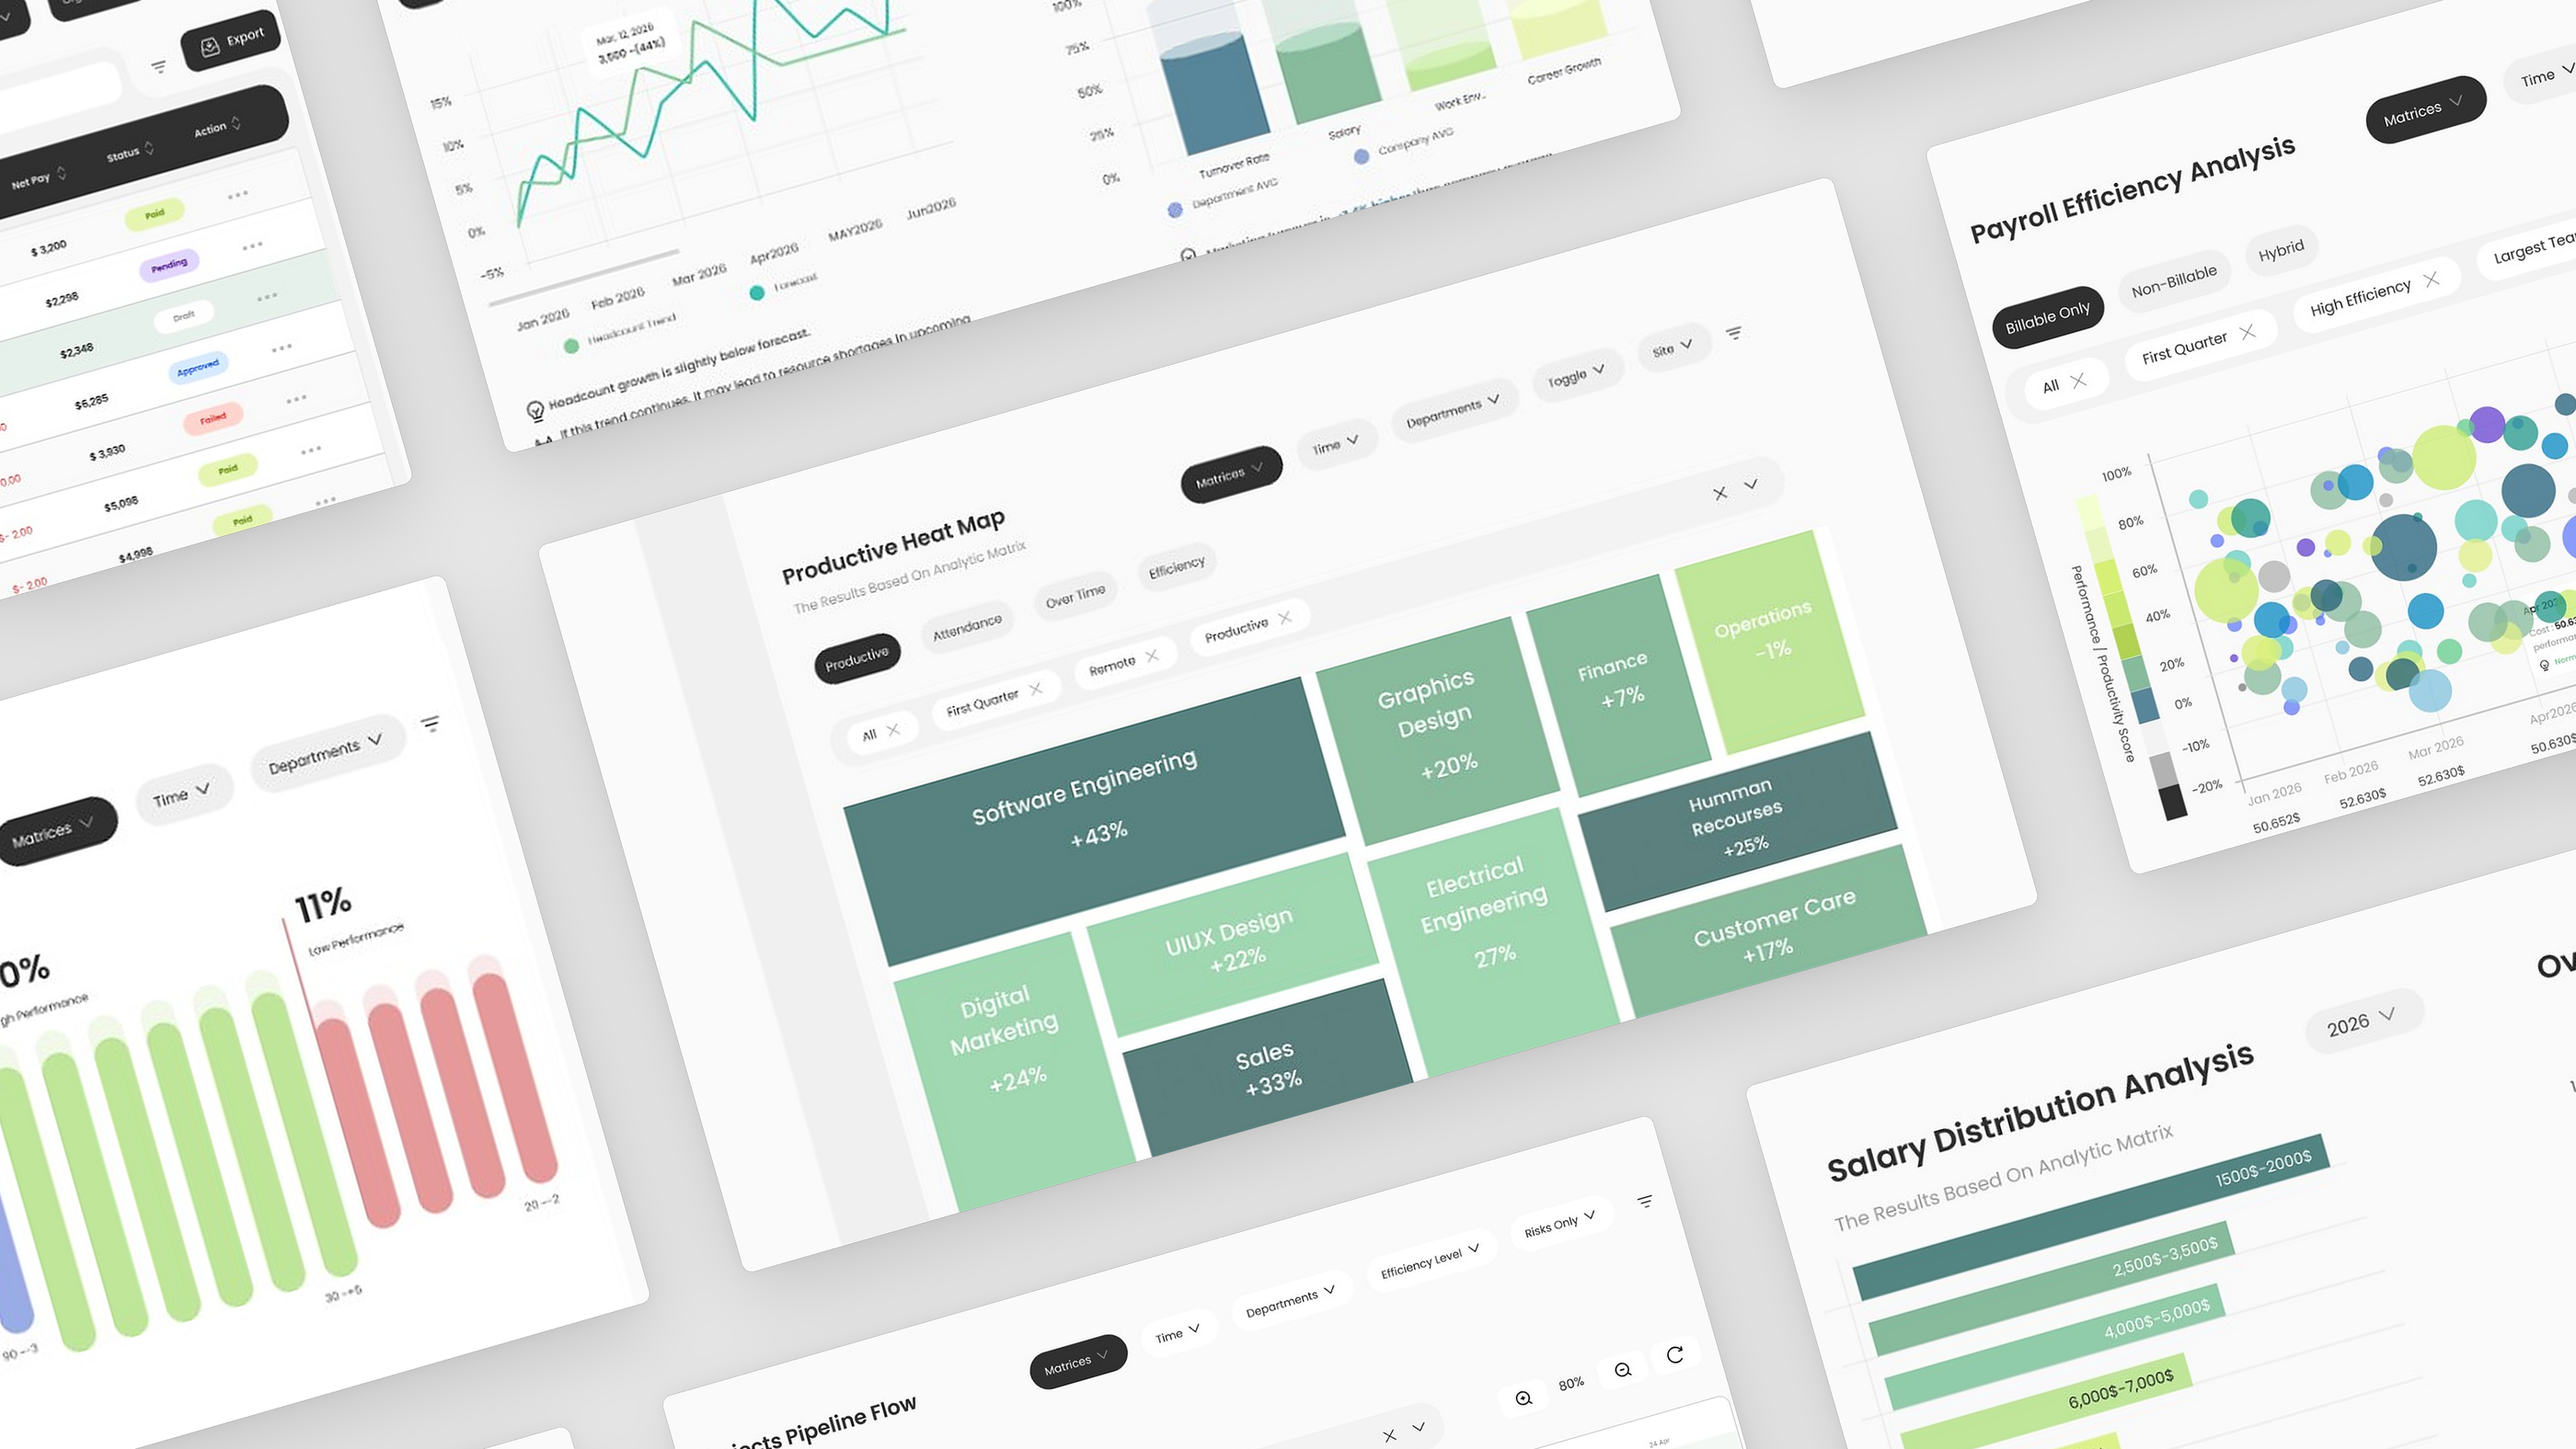
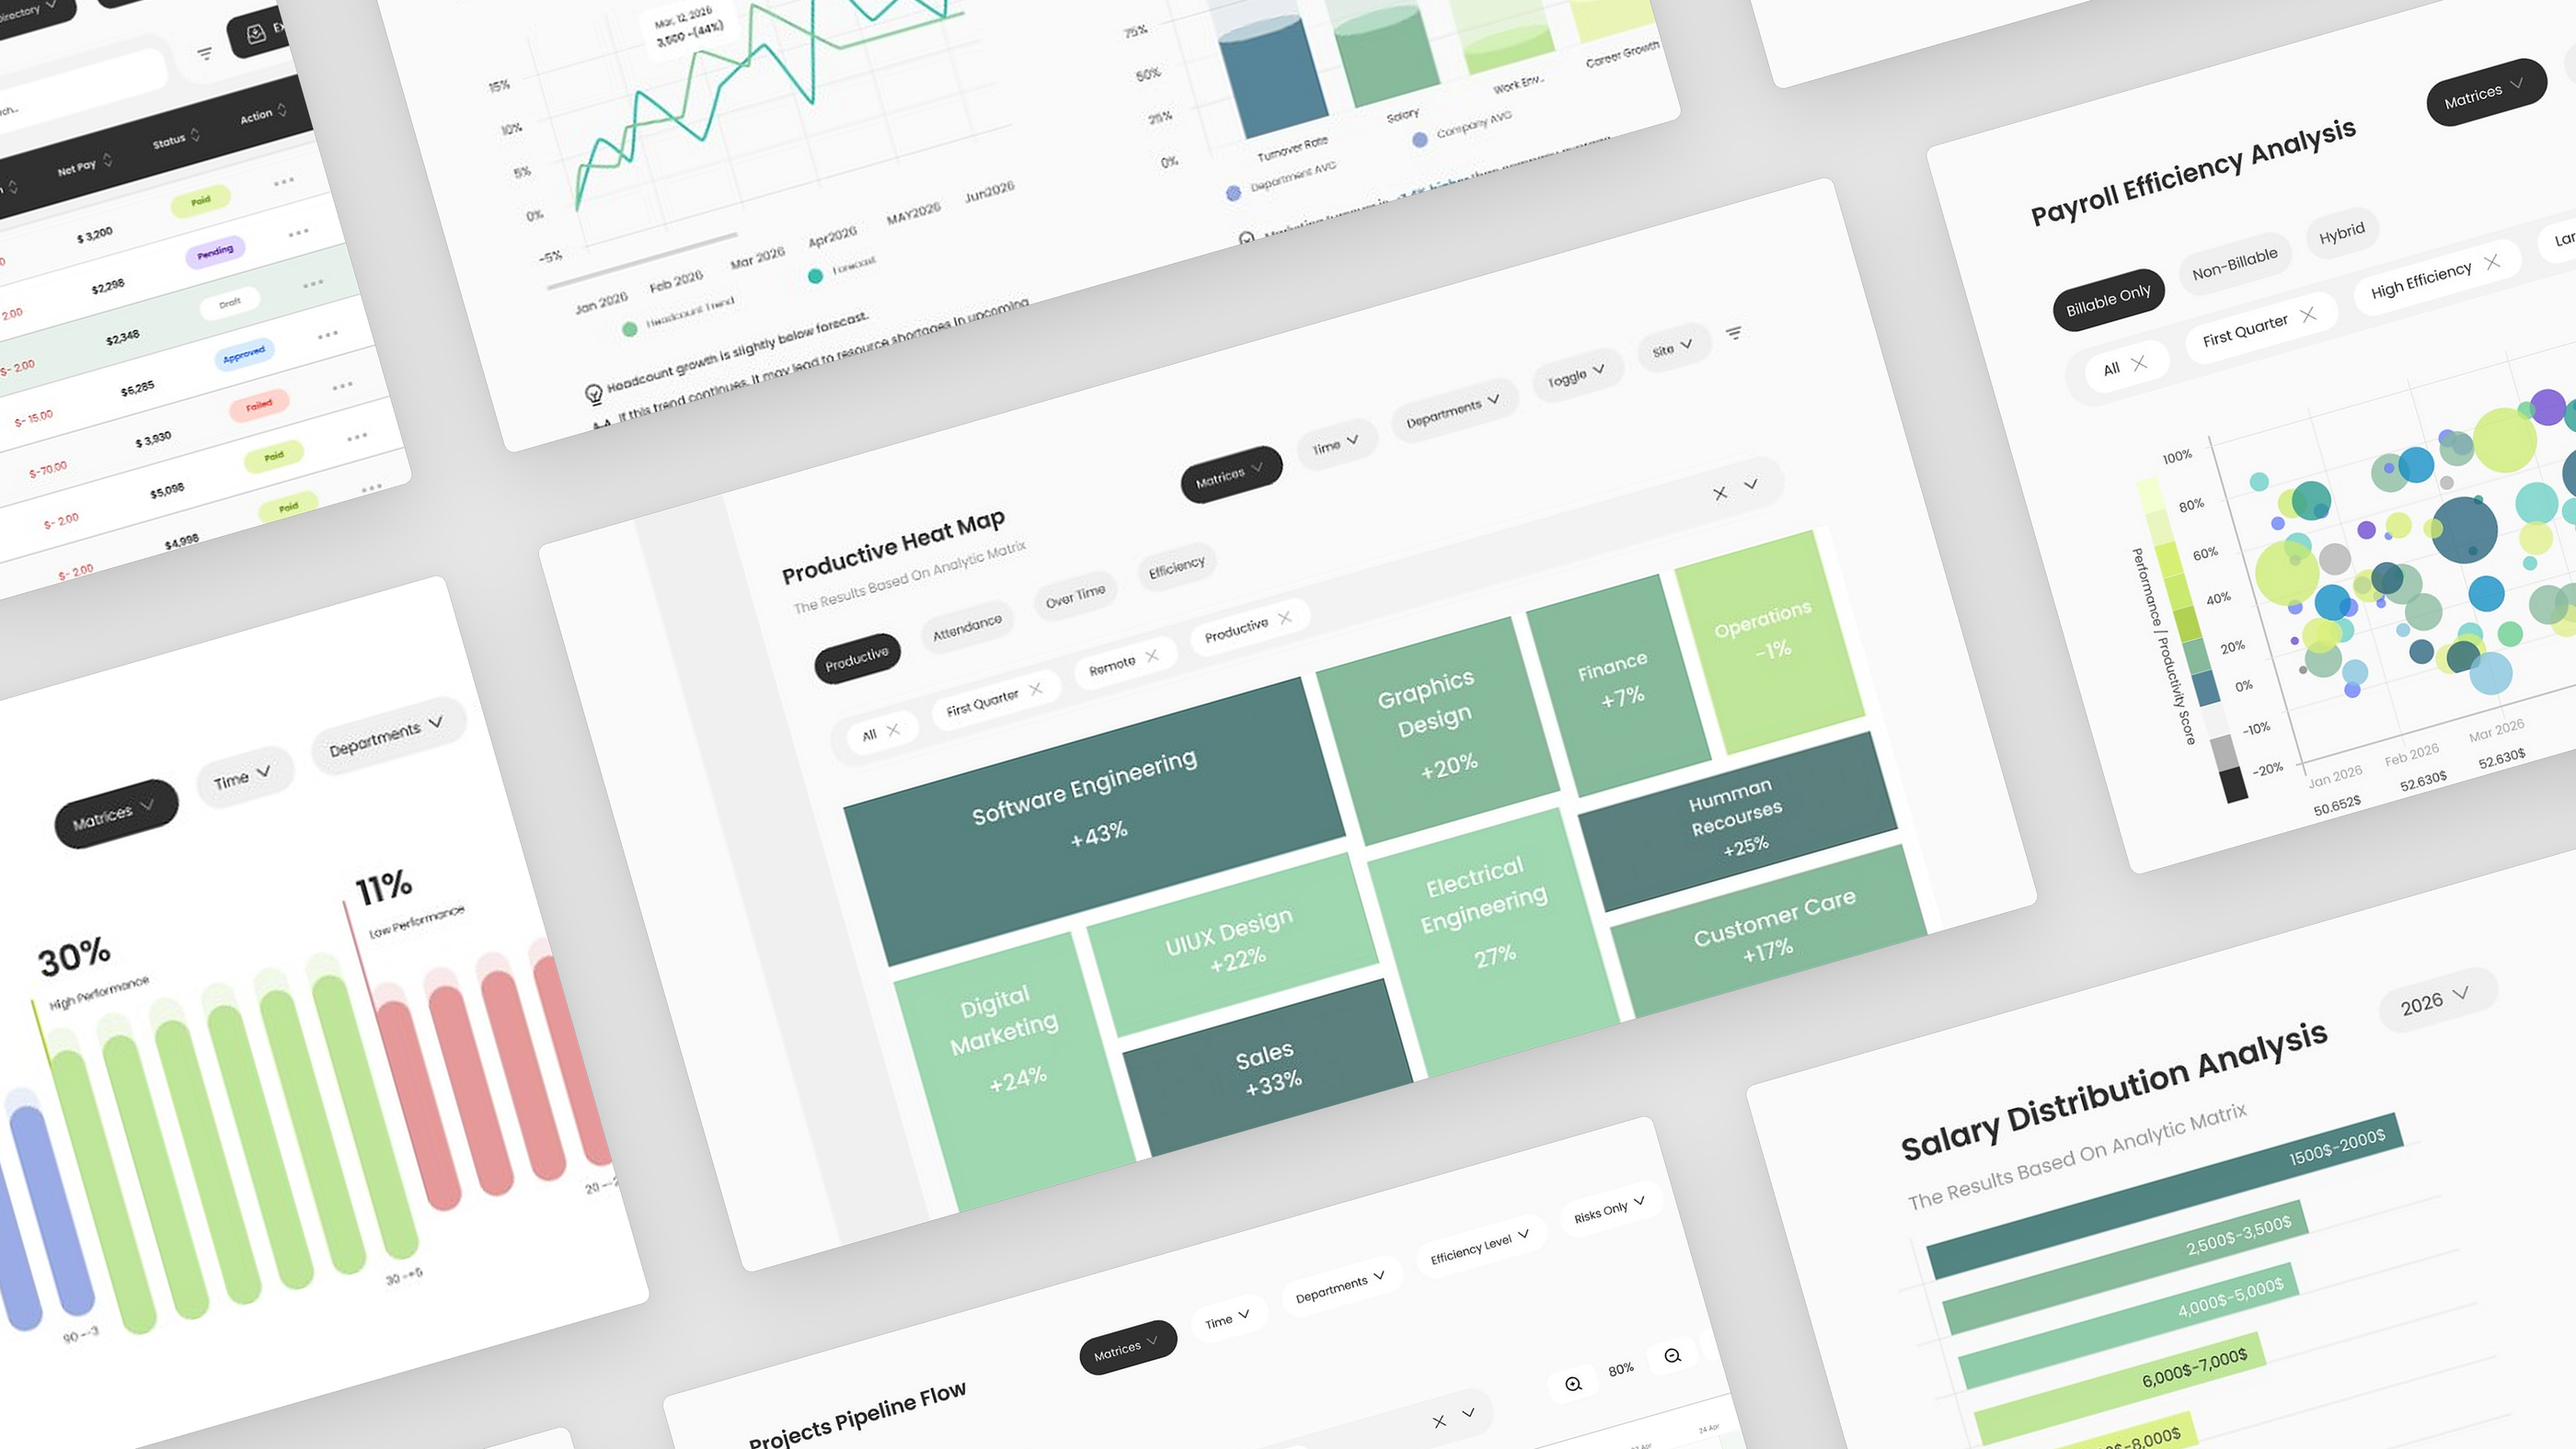
Tilted wall: left space in every card except the centre heat map
Claude-Session: https://claude.ai/code/session_01FdYAnoP1AuAPuCnLWf7gdc

diff --git a/behance-cover/mockups/set28s.py b/behance-cover/mockups/set28s.py
@@ -38,6 +38,9 @@ def snap(key, w, h):
     pad = round(cw * 0.05)   # breathing room above each card's title: the crop's top row repeated
     c = Image.new('RGB', (cw, ch), page); c.paste(src.crop((max(x0, 0), y0, min(x0 + cw, src.width), min(y0 + ch - pad, src.height))), (max(-x0, 0), pad))
     row = c.crop((0, pad, cw, pad + 1)).resize((cw, pad)); c.paste(row, (0, 0))
+    if key != 'heat':   # breathing room on the left too (the heat map in the centre stays as it is)
+        pl = round(cw * 0.05); body = c.crop((0, 0, cw - pl, ch))
+        c = Image.new('RGB', (cw, ch), page); c.paste(body, (pl, 0)); c.paste(body.crop((0, 0, 1, ch)).resize((pl, ch)), (0, 0))
     k = w / cw; c = c.resize((w, h), Image.LANCZOS)
     return c.point(lambda v: round(255 * (v / 255) ** 1.1)).filter(ImageFilter.UnsharpMask(radius=0.6 * k, percent=80, threshold=2))
 def render(F):
